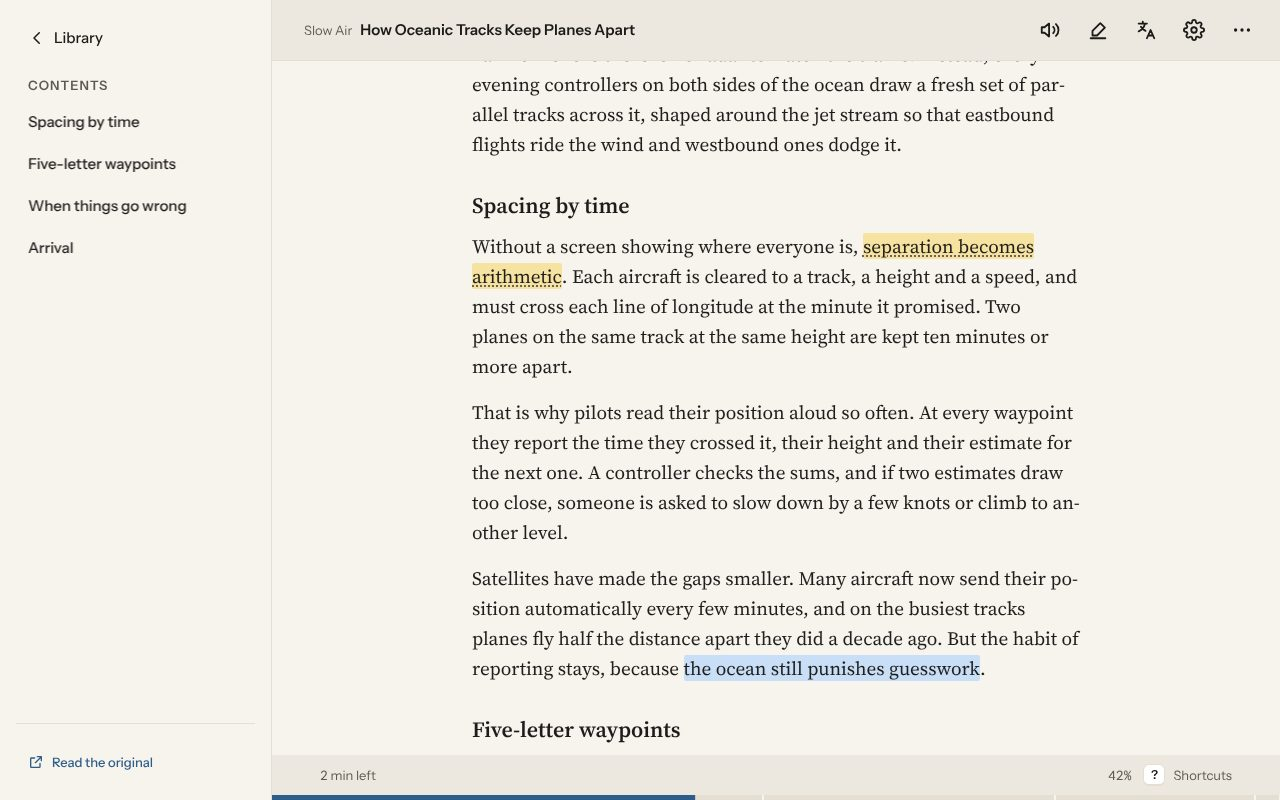
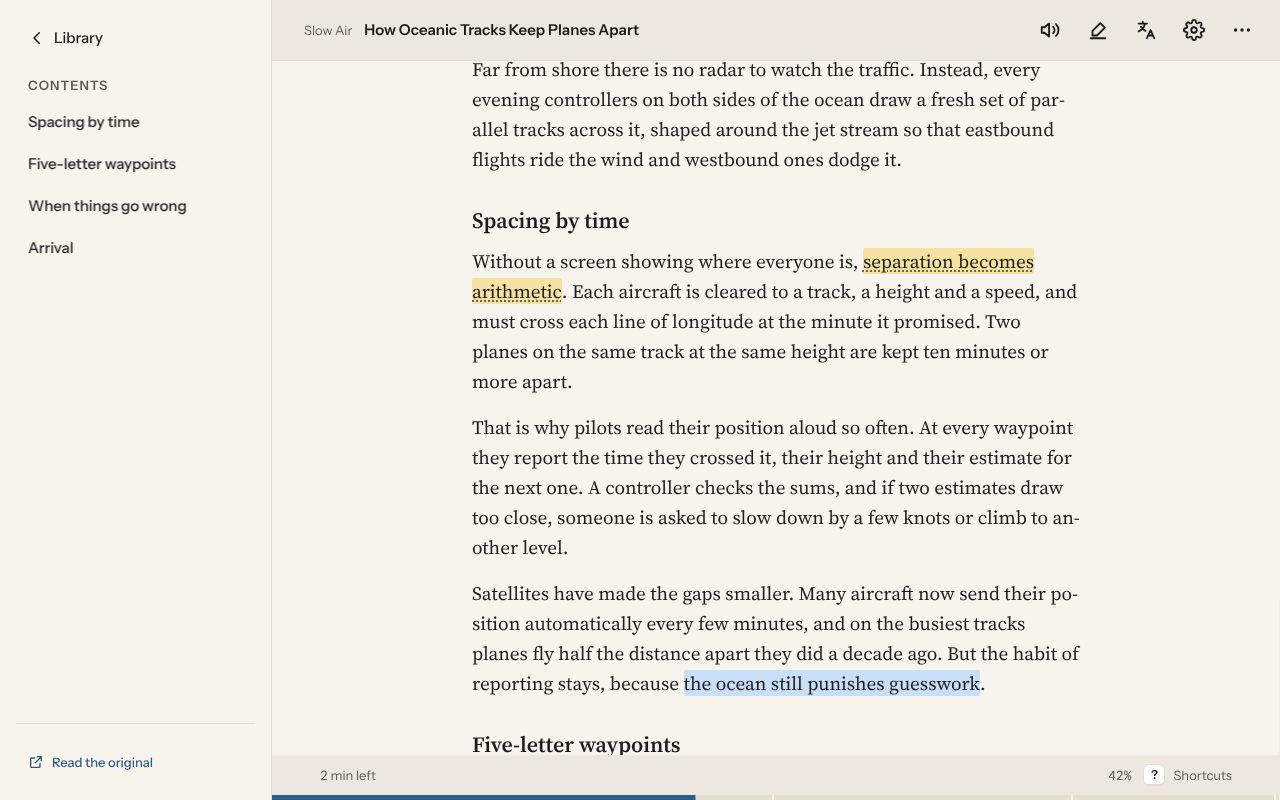
Reader on a phone: the name in a bubble under the top bar (#284)
* Reader on a phone: the name in a bubble under the top bar

The name was squeezed in among the bar's buttons. It now hangs under the
bar in a bubble, centred, with the chapter being read under it, and
fades with the bar as you read on. A tap on the name still renames it;
the field spans the bubble while it's open. Bigger screens keep the name
in the bar, where it has room.

Claude-Session: https://claude.ai/code/session_01CFeKrhVHXKj6uXcJXhXPRr

* README: retake the reader shots with the name bubble

Claude-Session: https://claude.ai/code/session_01CFeKrhVHXKj6uXcJXhXPRr

---------

Changed region(s): [[0.3438, 0.25, 0.8438, 0.875], [0.2812, 0.0312, 0.8438, 0.2188], [0.3438, 0.9062, 0.5312, 0.9375]]

diff --git a/src/styles.css b/src/styles.css
@@ -2656,8 +2656,29 @@ button.reader-title {
   flex: 1; min-width: 0; font: inherit; font-weight: 600; color: var(--ink); background: var(--surface);
   border: 1px solid var(--line); border-radius: var(--r-sm, 8px); padding: var(--s-1) var(--s-2);
 }
+.reader-part { display: none; }
 @media (max-width: 699px) {
   .reader-site { display: none; }
+  /* The clip's name in a bubble under the bar (Daniel's ask), the chapter
+     under it; it goes with the bar. A tap on the name renames it. */
+  .reader-bar .reader-name {
+    position: absolute; top: calc(100% + var(--s-2)); left: 50%; transform: translateX(-50%);
+    flex-direction: column; align-items: center; justify-content: center; gap: 0;
+    max-width: calc(100% - 2 * var(--s-6)); min-height: var(--tap); margin: 0; padding: var(--s-1) var(--s-4);
+    border: 1px solid var(--line); border-radius: var(--r-full);
+    background: var(--surface); color: var(--ink); box-shadow: 0 6px 18px var(--shadow);
+    transition: opacity var(--spring-control-ms, 300ms) ease;
+  }
+  .reader-bar .reader-name:empty { display: none; }
+  .reader-bar .reader-name:has(.reader-title-input) { width: calc(100% - 2 * var(--s-4)); max-width: none; border-radius: var(--r-lg); padding: var(--s-2); }
+  .reader-bar .reader-name .reader-title { max-width: 100%; padding: var(--s-1) 0 0; font-size: var(--fs-label); line-height: 1.2; }
+  .reader-bar .reader-name .reader-title:only-child,
+  .reader-bar .reader-name .reader-title:has(+ .reader-part[hidden]) { padding: var(--s-1) 0; }
+  .reader-bar .reader-name .reader-title-input { width: 100%; }
+  .reader-bar .reader-name:has(.reader-title-input) .reader-part { display: none; }
+  .reader-part { display: block; max-width: 100%; padding-bottom: var(--s-1); overflow: hidden; text-overflow: ellipsis; font: 400 var(--fs-meta)/1.2 var(--sans); color: var(--muted); }
+  .reader-part[hidden] { display: none; }
+  .reader.bar-away:not(.gliding) .reader-bar:not(:focus-within) .reader-name { opacity: 0; pointer-events: none; }
   /* A smaller reader bar on a phone (Daniel's ask, 2.0.0): 18 px icons in 38 px
      buttons, so the clip's name has room. */
   .reader-bar .icon-btn { width: 38px; height: 38px; flex: none; }

diff --git a/src/app-reader.js b/src/app-reader.js
@@ -821,6 +821,14 @@ function showSection() {
   if ($("readerNow").textContent === (section || "Contents")) return;
   $("readerNow").textContent = section || "Contents";
   $("readerContents").setAttribute("aria-label", section ? "Contents, now " + section : "Contents");
+  paintPart();
+}
+// On a phone the name hangs under the bar in a bubble, with the chapter
+// being read under it.
+function paintPart() {
+  const now = $("readerNow").textContent, part = $("readerName").querySelector(".reader-part");
+  const text = now && now !== "Contents" ? now : "";
+  if (part) { part.textContent = text; part.hidden = !text; }
 }
 
 // The bar along the bottom fills as the page is read. The top bar slides
@@ -3648,7 +3656,8 @@ function noteSettings() {
 function paintReaderName(p) {
   const title = p.preview ? el("span", { class: "reader-title" }, p.title)
     : el("button", { class: "reader-title", type: "button", "aria-label": "Rename", title: "Rename", onclick: () => renameInReader(p) }, p.title);
-  fill($("readerName"), siteOf(p) ? el("span", { class: "reader-site" }, siteOf(p)) : null, title);
+  fill($("readerName"), siteOf(p) ? el("span", { class: "reader-site" }, siteOf(p)) : null, title, el("span", { class: "reader-part", dir: "auto", hidden: "" }));
+  paintPart();
 }
 // The name becomes a field where it is: Enter or tapping away saves, Escape
 // leaves it as it was.

diff --git a/test/ui.test.js b/test/ui.test.js
@@ -764,6 +764,13 @@ function zipOf(files) {
       await q.locator("#readerView:not([hidden])").waitFor();
       await until(q, () => document.querySelectorAll("#readTicks i").length >= 7);
       assert.match(await q.locator("#readSection").innerText(), /min left/);
+      // On a phone the name hangs in a bubble under the bar, the chapter under it.
+      await q.evaluate(() => Waypage.reader.jumpTo(3));
+      await until(q, () => /Chapter/.test(document.querySelector("#readerName .reader-part").textContent));
+      const name = await q.locator("#readerName").boundingBox(), topBar = await q.locator("#readerView .reader-bar").boundingBox();
+      assert.ok(name.y >= topBar.y + topBar.height, "the name isn't under the bar");
+      await q.frameLocator("#readerFrame").locator("body").evaluate(() => window.scrollTo(0, 0));
+      await q.waitForTimeout(800);
       await q.locator("#readSection").click();
       await q.locator("#skimBar:not([hidden])").waitFor();
       await q.waitForTimeout(500);

diff --git a/DESIGN.md b/DESIGN.md
@@ -226,9 +226,11 @@ and the page shows above it.
   bottom bar's time or pages left sits `--gutter` + `--s-2` in from the
   edge, centred in a bar at least `--s-7` tall.
   On a phone (under 700 px) the top bar's buttons are 38 px with 18 px
-  icons, the one exception to 44 px targets (Daniel's ask, 2.0.0), so the
-  clip's name has room; the name is a button that renames it in place
-  (a field over the name, Enter or tapping away saves, Escape cancels).
+  icons, the one exception to 44 px targets (Daniel's ask, 2.0.0). The
+  clip's name hangs under the bar in a `--surface` bubble, centred, with
+  the chapter being read under it in `--muted`, and fades with the bar;
+  the name is a button that renames it in place (a field across the
+  bubble, Enter or tapping away saves, Escape cancels).
 - **Collection tile (Now):** its story page's cover when it's linked to
   one (0.27.6), else its first picture, else its icon (the folder, or the
   book for a story) at 44 px, centred on `--preview`, `--muted` (the book

diff --git a/changes/feature-title-bubble.md b/changes/feature-title-bubble.md
@@ -1,0 +1,2 @@
+### Changed
+- On a phone, the reader's top bar no longer squeezes the name in among its buttons. The name hangs in a bubble just under the bar, with the chapter you're in under it, and goes away with the bar as you read on. Tap the name to rename it, as before.
